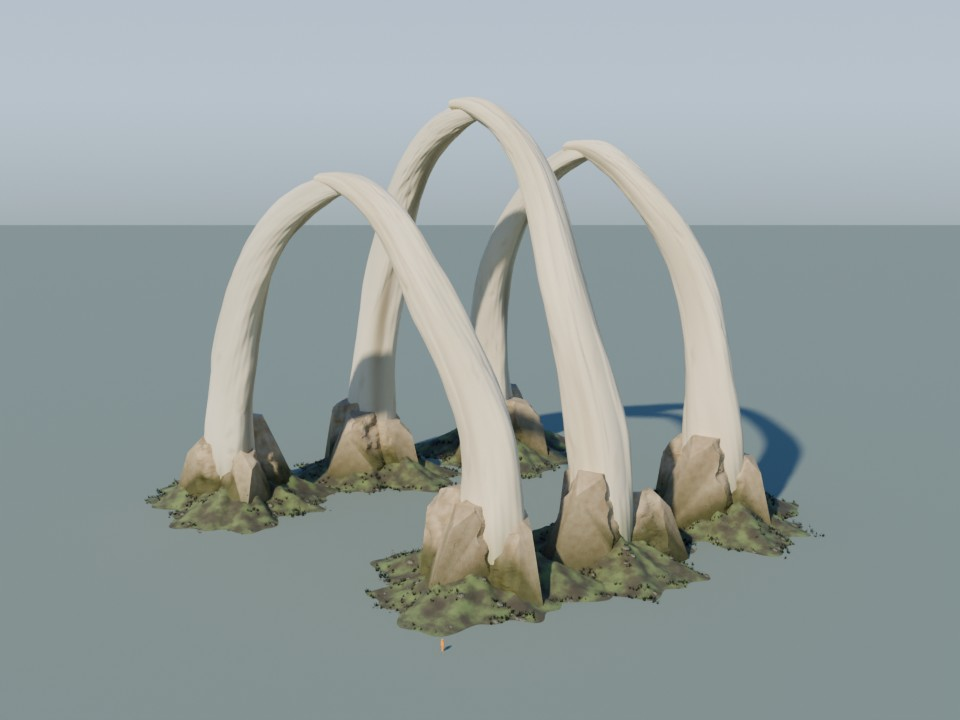
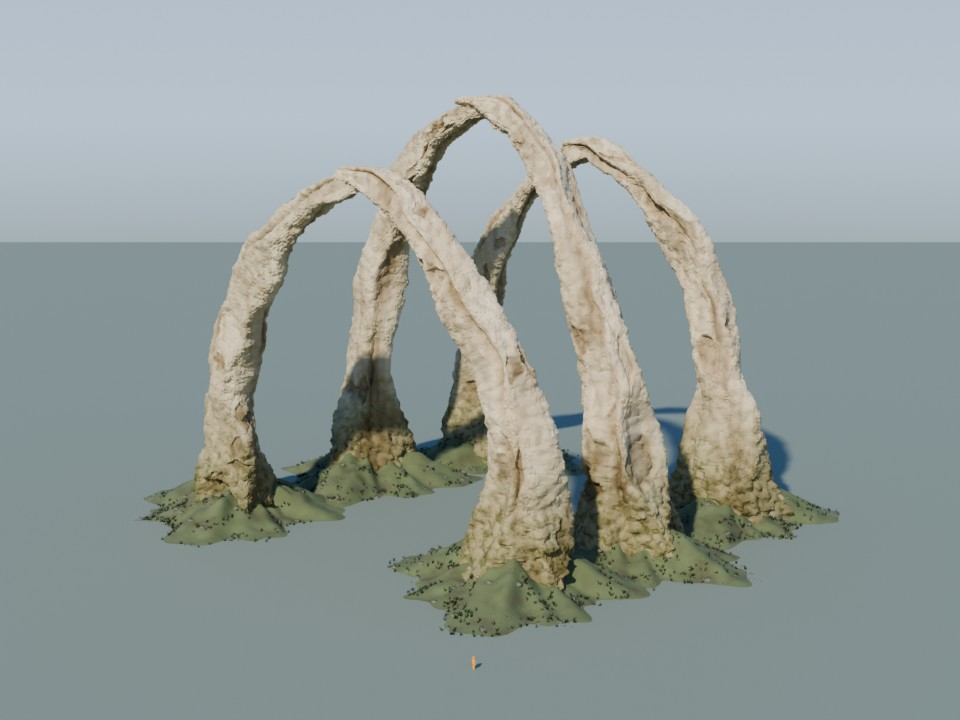
Carve weathered limestone ribs with fused buttress roots

Changed region(s): [[0.0, 0.1222, 1.0, 0.8861]]

diff --git a/assets/monuments/rib_arch_a/build.py b/assets/monuments/rib_arch_a/build.py
@@ -44,14 +44,14 @@ def loft(name, rings, mat, smooth=True):
     return obj
 
 
-def pale_stone(name, i, buttress=False):
+def pale_stone(name, i):
     mat = vrmat.get("monument_white").copy()
     mat.name = name
     nodes, links = mat.node_tree.nodes, mat.node_tree.links
     surface = nodes["Principled BSDF"]
     cream = vrmat.load_palette()["monument_white"]["linear_rgb"]
     warm = math.sin(i*2.12)
-    tint = (.78,.71,.60) if buttress else (1+.045*warm,.985,.965-.076*warm)
+    tint = (.87+.11*warm,.85+.075*warm,.77+.075*warm)
     ivory = tuple(c*t for c,t in zip(cream,tint))
     diffuse = surface.inputs["Base Color"]
     honed = nodes.new("ShaderNodeMixRGB")
@@ -72,43 +72,46 @@ def pale_stone(name, i, buttress=False):
         node.inputs[2].default_value = (*color,1)
         return node.outputs[0]
 
-    bed_tint = (.50,.43,.33) if buttress else (.79,.80,.75)
-    foot_tint = (.18,.24,.12) if buttress else (.32,.41,.24)
     coords = nodes.new("ShaderNodeTexCoord")
-    bed_mask = attributes["Stone bed"]
-    if buttress:
-        bed_noise = nodes.new("ShaderNodeTexNoise")
-        bed_noise.inputs["Scale"].default_value = .83
-        bed_noise.inputs["Detail"].default_value = 3.2
-        links.new(coords.outputs["Object"], bed_noise.inputs["Vector"])
-        mix = nodes.new("ShaderNodeMixRGB")
-        mix.inputs[0].default_value = .16
-        links.new(bed_noise.outputs["Fac"], mix.inputs[1])
-        links.new(bed_mask, mix.inputs[2])
-        bed_mask = mix.outputs[0]
-    tone = stained(honed.outputs[0], bed_mask, bed_tint)
-    tone = stained(tone, attributes["Rain runnel"], (.38,.32,.23))
-    tone = stained(tone, attributes["Foot patina"], foot_tint)
+    vector = coords.outputs["Object"]
+    tone = stained(honed.outputs[0], attributes["Stone bed"], (.61,.56,.47))
+    tone = stained(tone, attributes["Rain runnel"], (.37,.29,.20))
+    foot = attributes["Foot patina"]
+    tone = stained(tone, foot, (.43,.46,.32))
+    lichen = nodes.new("ShaderNodeTexNoise")
+    lichen.inputs["Scale"].default_value = .92
+    lichen.inputs["Detail"].default_value = 3
+    links.new(vector, lichen.inputs["Vector"])
+    spots = nodes.new("ShaderNodeValToRGB")
+    spots.color_ramp.elements[0].position = .49
+    spots.color_ramp.elements[1].position = .68
+    links.new(lichen.outputs["Fac"], spots.inputs["Fac"])
+    mask = nodes.new("ShaderNodeMath")
+    mask.operation = "MULTIPLY"
+    links.new(spots.outputs["Color"], mask.inputs[0])
+    links.new(foot, mask.inputs[1])
+    tone = stained(tone, mask.outputs[0], (.34,.43,.20))
     links.new(tone, diffuse)
-    surface.inputs["Specular IOR Level"].default_value = .23
+    surface.inputs["Specular IOR Level"].default_value = .18
+    links.remove(surface.inputs["Roughness"].links[0])
+    surface.inputs["Roughness"].default_value = .87
     grain = nodes.new("ShaderNodeTexNoise")
-    grain.inputs["Scale"].default_value = 74
+    grain.inputs["Scale"].default_value = 31
     grain.inputs["Detail"].default_value = 1.4
-    links.new(coords.outputs["Object"], grain.inputs["Vector"])
+    links.new(vector, grain.inputs["Vector"])
     bump = nodes.new("ShaderNodeBump")
-    bump.inputs["Distance"].default_value = .014
-    bump.inputs["Strength"].default_value = .28
+    bump.inputs["Distance"].default_value = .035
+    bump.inputs["Strength"].default_value = .47
     links.new(grain.outputs["Fac"], bump.inputs["Height"])
-    if buttress:
-        pits = nodes.new("ShaderNodeTexNoise")
-        pits.inputs["Scale"].default_value = 7.2
-        pits.inputs["Detail"].default_value = 2.7
-        links.new(coords.outputs["Object"], pits.inputs["Vector"])
-        worn = nodes.new("ShaderNodeBump")
-        worn.inputs["Distance"].default_value = .19
-        worn.inputs["Strength"].default_value = .55
-        links.new(pits.outputs["Fac"], worn.inputs["Height"])
-        links.new(worn.outputs["Normal"], bump.inputs["Normal"])
+    pits = nodes.new("ShaderNodeTexNoise")
+    pits.inputs["Scale"].default_value = 3.4
+    pits.inputs["Detail"].default_value = 2.1
+    links.new(vector, pits.inputs["Vector"])
+    worn = nodes.new("ShaderNodeBump")
+    worn.inputs["Distance"].default_value = .24
+    worn.inputs["Strength"].default_value = .50
+    links.new(pits.outputs["Fac"], worn.inputs["Height"])
+    links.new(worn.outputs["Normal"], bump.inputs["Normal"])
     links.new(bump.outputs["Normal"], surface.inputs["Normal"])
     return mat
 
@@ -139,13 +142,16 @@ def atmospheres(obj, masks):
         attr.data.foreach_set("value", values)
 
 
-def limb(name, spine, width, thickness, stone, rng, direction):
-    n, steps = 128, 230
+def limb(name, spine, width, thickness, stone, rng, direction, broken):
+    n, steps = 160, 350
     phi = rng.uniform(0,math.tau)
     ridges = [(j*math.tau/3+rng.uniform(-.33,.33),rng.uniform(.23,.41),rng.uniform(.49,.79))
               for j in range(3)]
-    fractures = [(rng.uniform(.09,.92),rng.uniform(0,math.tau),rng.uniform(.013,.043),
-                  rng.uniform(.10,.22),rng.uniform(.12,.36),rng.uniform(-7,7)) for _ in range(35)]
+    fractures = [(rng.uniform(.08,.94),rng.uniform(0,math.tau),rng.uniform(.014,.050),
+                  rng.uniform(.21,.55),rng.uniform(.24,.95),rng.uniform(-7,7)) for _ in range(35)]
+    root_rng = random.Random(phi)
+    breaks = [(phi+i*math.tau/4+root_rng.uniform(-.28,.28),root_rng.uniform(.72,.92),
+               root_rng.uniform(.24,.60)) for i in range(4)]
     rings, beds, rain, grime = [], [], [], []
     for i in range(steps+1):
         t = i/steps
@@ -159,8 +165,11 @@ def limb(name, spine, width, thickness, stone, rng, direction):
         flank = side*math.cos(twist)-outer*math.sin(twist)
         taper = (1-.65*t)**1.22
         overlap = 1-.47*smoothstep((t-.86)/.14)
-        a = width*taper*overlap
-        b = thickness*(1-.52*t)**1.08*overlap
+        pulses = .19*math.sin(15*t+phi)+.11*math.sin(34*t-phi)+.047*math.sin(65*t+phi)
+        a = width*taper*overlap*(1+pulses)
+        b = thickness*(1-.52*t)**1.08*overlap*(1-.78*pulses+.11*math.cos(23*t+phi))
+        power = .63+.17*math.sin(12*t+phi)+.12*math.sin(27*t)
+        root = (1-smoothstep((t-.032)/.235))*(1-.41*smoothstep(t/.23))
         row = []
         active = [(s,k,l,w,d,g) for s,k,l,w,d,g in fractures if abs(s-t) < l]
         for j in range(n):
@@ -172,92 +181,52 @@ def limb(name, spine, width, thickness, stone, rng, direction):
             for c, breadth, dep in ridges:
                 drift = .24*math.sin(5*t+phi+c)+.13*math.sin(13*t+c)
                 v = math.remainder(k-c-drift, math.tau)/breadth
-                g = math.exp(-v*v)*(.65+.35*math.cos(9*t+c)**2)
-                erosion += dep*g
-                runoff = max(runoff,(.21+.56*max(0,co))*g)
+                g = math.exp(-v*v)*(.57+.43*math.cos(13*t+c)**2)
+                erosion += 1.65*dep*g
+                runoff = max(runoff,(.56+.34*max(0,co))*g)
             for s,c,length,breadth,depth,g in active:
                 u = (t-s)/length
                 v = math.remainder(k-c-g*(t-s)-.034*math.sin(7*u),math.tau)/breadth
-                fracture = max(0, 1-abs(u)**1.55-abs(v))
+                fracture = smoothstep((1-abs(u)**1.3-abs(v))*3.8)
                 erosion += depth*fracture
-                runoff = max(runoff,.25*fracture)
-            mid = .07*math.sin(17*k-53*t+phi)*math.cos(7*k+31*t)
-            stroke = max(-.46,swell-erosion+mid)*(1-.77*smoothstep((t-.80)/.2))
-            pt = p + turn*((a+stroke)*math.copysign(abs(co)**.80,co))
-            pt += flank*((b+stroke*.53)*math.copysign(abs(si)**.93,si))
-            pt.z = max(-.052,pt.z)
+                runoff = max(runoff,.55*fracture)
+            flare = (1+.28*math.cos(3*k+phi)+.16*math.sin(5*k-2*phi))*root
+            tx = (a+8.3*flare)*math.copysign(abs(co)**power,co)
+            fy = (b+7.6*flare)*math.copysign(abs(si)**(power+.08),si)
+            relief = (swell-erosion)*(1-.62*smoothstep((t-.82)/.18))
+            for angle, reach, rake in breaks:
+                c, s = math.cos(angle),math.sin(angle)
+                projected = c*tx+s*fy
+                plane = (8.2+3.2*root)*reach-rake*p.z
+                trim = max(0,projected-plane)*root
+                tx -= trim*c
+                fy -= trim*s
+            out = turn*tx + flank*fy
+            out.z *= smoothstep(p.z/11)
+            pt = p+out
+            coarse = noise_vector(pt*.70).x
+            broken_surface = noise_vector(pt*2.9).y
+            relief += coarse*(.41+.59*root)+broken_surface*(.26+.10*root)
+            relief += .023*noise_vector(pt*18).x
+            pt += (turn*co+flank*si)*relief
+            pt.z = -.052 if i == 0 else max(-.052,pt.z)
             row.append(pt)
-            beds.append(.49+.23*math.sin(14*t+2*k+phi)+.19*math.cos(5*t-k))
-            rain.append(min(.79,runoff*(.70+.30*math.sin(11*t+k+phi)**2)))
-            grime.append((1-smoothstep((pt.z-1.7)/13))*(.62+.23*math.sin(7*k+phi)**2))
+            beds.append(.39+.20*math.sin(21*t+2*k+phi)+.23*coarse+.21*root)
+            streak = noise_vector(Vector((pt.x*.91,pt.y*.91,pt.z*.13))).y
+            rain.append(min(.90,runoff*(.62+.38*math.sin(11*t+k+phi)**2)+.55*max(0,streak+.11)))
+            grime.append((1-smoothstep((pt.z-5.8)/22))*(.81+.25*coarse))
         rings.append(row)
     obj = loft(name, rings, stone)
     atmospheres(obj, (beds,rain,grime))
-    p, axis = spine(.993)
-    cut_plane(obj, p, axis + Vector((0,.47*direction,.39)))
+    if broken:
+        p, axis = spine(.979)
+        cut_plane(obj, p, axis + Vector((0,.73*direction,.46)), fracture=True)
+    else:
+        p, axis = spine(.996)
+        cut_plane(obj, p, axis + Vector((0,.43*direction,.28)))
     bevel = obj.modifiers.new("Worn scarf tip", "BEVEL")
     bevel.width, bevel.segments, bevel.angle_limit = .084, 3, .73
-
-
-def buttresses(name, x, y, stone, rng, side):
-    phase = (math.radians(-73) if side == 1 else math.radians(107)) + rng.uniform(-.16,.16)
-    lobes = []
-    count = rng.choice((3,3,4))
-    for index in range(count):
-        az = phase + math.tau*index/count + rng.uniform(-.18,.18)
-        outward = Vector((math.cos(az),math.sin(az),0))
-        lateral = Vector((-outward.y,outward.x,0))
-        origin = Vector((x,y,0))
-        reach, width = rng.uniform(10.8,13.9), rng.uniform(5.2,7.2)
-        height = rng.uniform(15.0,18.5) if index == 0 else rng.uniform(11.6,15.6)
-        breaks = [(rng.uniform(.05,.9), rng.uniform(.28,.68), rng.uniform(.10,.22),
-                   rng.uniform(.12,.25), rng.uniform(.28,.72)) for _ in range(22)]
-        rings = []
-        for i in range(61):
-            t = i/60
-            taper = 1-.32*t-.32*t*t
-            row = []
-            for j in range(104):
-                a = j*math.tau/104
-                c, s = math.cos(a), math.sin(a)
-                swell = 1+.060*math.sin(3*a+index)+.055*math.sin(5*a-4*t)
-                p = origin + outward*(6.3-1.9*t+reach*taper*swell*c)
-                p += lateral*(width*taper*swell*s+1.35*t*math.sin(index+1))
-                p.z = max(-.051,t*height + .71*t*math.cos(2*a+index)-.051)
-                noise = noise_vector(p*.49).x*.73+noise_vector(p*2.9).y*.16+noise_vector(p*10).x*.028
-                for centre, level, breadth, rise, depth in breaks:
-                    v = abs(math.remainder(a-centre,math.tau))/breadth
-                    u = abs(t-level)/rise
-                    if u+v < 1:
-                        noise -= depth*smoothstep((1-u-v)*3)
-                p += outward*(noise*c)+lateral*(noise*s)
-                row.append(p)
-            rings.append(row)
-        obj = loft(f"{name} | splayed buttress {index+1}",rings,stone)
-        for elevation, distance, lean, skew in (
-            (.55,1.16,.78,-.44), (.75,.89,.99,.18), (.42,.96,.15,.97),
-            (.64,.91,.58,-.94), (.31,1.26,-.18,.21),
-        ):
-            point = origin + outward*(distance*reach) + Vector((0,0,elevation*height))
-            normal = outward + lateral*(skew+rng.uniform(-.13,.13)) + Vector((0,0,lean))
-            cut_plane(obj, point, normal, fracture=True)
-
-        masks = ([],[],[])
-        for vertex in obj.data.vertices:
-            p = vertex.co
-            z = p.z
-            bed = .5+.24*math.sin(z*1.6+p.x*.19-p.y*.12)+.21*noise_vector(p*.53).x
-            runnel = .38*smoothstep((noise_vector(Vector((p.x*.89,p.y*.89,z*.16))).y+.34)/.84)
-            wet_height = 6.2 + 1.6*noise_vector(p*.32).x
-            wet = .91*(1-smoothstep((z-wet_height+1.30)/5.0))
-            masks[0].append(bed)
-            masks[1].append(runnel)
-            masks[2].append(wet)
-        atmospheres(obj,masks)
-        bevel = obj.modifiers.new("Worn fracture arrises", "BEVEL")
-        bevel.width, bevel.segments, bevel.angle_limit = .13, 3, .42
-        lobes.append(obj)
-    return lobes
+    return obj
 
 
 def cut_plane(obj, point, normal, fracture=False):
@@ -313,30 +282,33 @@ def bank_material():
     nodes, links = mat.node_tree.nodes, mat.node_tree.links
     surface = nodes["Principled BSDF"]
     noise = nodes.new("ShaderNodeTexNoise")
-    noise.inputs["Scale"].default_value = .36
+    noise.inputs["Scale"].default_value = .22
     noise.inputs["Detail"].default_value = 4
     links.new(nodes.new("ShaderNodeTexCoord").outputs["Object"], noise.inputs["Vector"])
     ramp = nodes.new("ShaderNodeValToRGB")
     ramp.color_ramp.elements[0].position = .32
-    ramp.color_ramp.elements[0].color = (.079,.064,.036,1)
-    ramp.color_ramp.elements[1].position = .65
-    ramp.color_ramp.elements[1].color = (.17,.205,.071,1)
-    ramp.color_ramp.elements.new(.45).color = (.10,.092,.047,1)
+    ramp.color_ramp.elements[0].color = (.098,.097,.043,1)
+    ramp.color_ramp.elements[1].position = .66
+    ramp.color_ramp.elements[1].color = (.145,.171,.070,1)
+    ramp.color_ramp.elements.new(.43).color = (.115,.131,.054,1)
     links.new(noise.outputs["Fac"], ramp.inputs["Fac"])
     links.new(ramp.outputs["Color"], surface.inputs["Base Color"])
     return mat
 
 
-def apron(x, y, ax, ay, turf, lobes, rng):
+def apron(x, y, ax, ay, turf, root, rng):
     phase = rng.uniform(0, math.tau)
     n = 164
 
     def surface(u, a):
-        edge = 1+.14*math.sin(3*a+phase)+.10*math.cos(7*a-phase)+.046*math.sin(17*a+phase)
-        bank = 4.45+.82*math.sin(3*a+phase)+.69*math.sin(8*a-phase)
+        edge = 1+.16*math.sin(3*a+phase)+.12*math.cos(7*a-phase)+.050*math.sin(17*a+phase)
+        bank = 4.8+1.21*math.sin(3*a+phase)+.77*math.sin(8*a-phase)
         px, py = x+ax*edge*u*math.cos(a), y+ay*edge*u*math.sin(a)
-        taper = 1-smoothstep((u-.25)/.75)
-        rise = taper*(bank+.66*noise_vector(Vector((px*.71,py*.71,phase))).x)
+        taper = 1-smoothstep((u-.24)/.76)
+        w = noise_vector(Vector((px*.44,py*.44,phase)))
+        rise = taper*(bank+1.04*w.x)
+        rise += .38*w.y*smoothstep((u-.47)/.24)*(1-smoothstep((u-.76)/.24))
+        rise = max(0,rise)
         return (px,py,rise-.051)
 
     stations = [i/32 for i in range(1,33)]
@@ -346,20 +318,20 @@ def apron(x, y, ax, ay, turf, lobes, rng):
                  for i in range(len(rings)-1) for j in range(n))
     mesh("Irregular root soil and turf", [p for row in rings for p in row], faces, turf,
          solid=False, smooth=True)
-    trees = [BVHTree.FromPolygons([v.co for v in obj.data.vertices],
-                                [p.vertices for p in obj.data.polygons]) for obj in lobes]
+    tree = BVHTree.FromPolygons([v.co for v in root.data.vertices],
+                                [p.vertices for p in root.data.polygons])
     rubble = vrmat.get("mossy_rock")
     plants = [([],[]),([],[])]
-    for cluster in range(94):
+    for cluster in range(131):
         a0 = rng.uniform(0,math.tau)
-        u0 = rng.uniform(.84,1.02) if cluster < 37 else rng.uniform(.28,.91)
+        u0 = rng.uniform(.78,1.05) if cluster < 65 else rng.uniform(.33,.89)
         for i in range(rng.randint(4, 9)):
             a, u = a0 + rng.uniform(-.11,.11), min(1.07,u0+rng.uniform(-.055,.055))
             px, py, pz = surface(u, a)
-            hits = [tree.ray_cast((-py,px,22),(0,0,-1))[0] for tree in trees] if u < .87 else []
-            top = max((hit.z for hit in hits if hit is not None), default=pz)
+            hit = tree.ray_cast((-py,px,19),(0,0,-1))[0] if u < .87 else None
+            top = max(pz,hit.z) if hit is not None else pz
             ledge = top > pz+.14
-            if top > pz+2.5 or (u > .96 and rng.random() < smoothstep((u-.96)/.12)*.9):
+            if top > pz+2.5 or (u > .89 and rng.random() < smoothstep((u-.89)/.18)*.93):
                 continue
             if i == 0 and cluster % 2 == 0 and not ledge and u < .94:
                 size = rng.uniform(.29,.83)
@@ -393,7 +365,6 @@ def center_footprint(objects):
 
 
 def build():
-    footing = pale_stone("Limestone | wet fractured buttresses", 6, buttress=True)
     turf = bank_material()
     for i,(row,height,span) in enumerate(((-31,64,32),(0,77,39),(31,69,35))):
         rng = random.Random(410903+209*i)
@@ -409,10 +380,10 @@ def build():
                          (crest_x-side*rng.uniform(3.6,5.1),crest_y-side*.95,crown))
             part = f"Rib {i+1:02}.{j+1}"
             stone = pale_stone(f"Limestone | {part}",3*i+j)
-            limb(part,spine,rng.uniform(6.25,7.15),rng.uniform(4.1,4.85),stone,rng,side)
+            root = limb(part,spine,rng.uniform(6.25,7.15),rng.uniform(4.1,4.85),
+                        stone,rng,side,broken=(i,j) in ((0,1),(2,0)))
             ground_rng = random.Random(15427+53*i+j)
-            lobes = buttresses(part,x,y,footing,ground_rng,side)
-            apron(x,y,ground_rng.uniform(18.8,21.0),ground_rng.uniform(17.3,19.7),turf,lobes,ground_rng)
+            apron(x,y,ground_rng.uniform(18.8,21.0),ground_rng.uniform(17.3,19.7),turf,root,ground_rng)
             if i == 0 and j == 1:
                 foreground = Vector((-y,x,0))
     rotation = Matrix.Rotation(math.radians(-74),4,"Z")
@@ -421,7 +392,7 @@ def build():
         obj.data.transform(rotation)
     shift = center_footprint(objects)
     foot = shift @ rotation @ foreground
-    figure = foot+Vector((23,-16,0))
+    figure = foot+Vector((27,-22,0))
     bpy.context.scene["vr_review_figure"] = (figure.x,figure.y)
-    bpy.context.scene["vr_review_hero"] = (-24,10,.85,-10)
+    bpy.context.scene["vr_review_hero"] = (-29,9,.81,-10)
     bpy.context.scene["vr_review_base"] = (*foot.xy,6.5,-54,23,.34)
